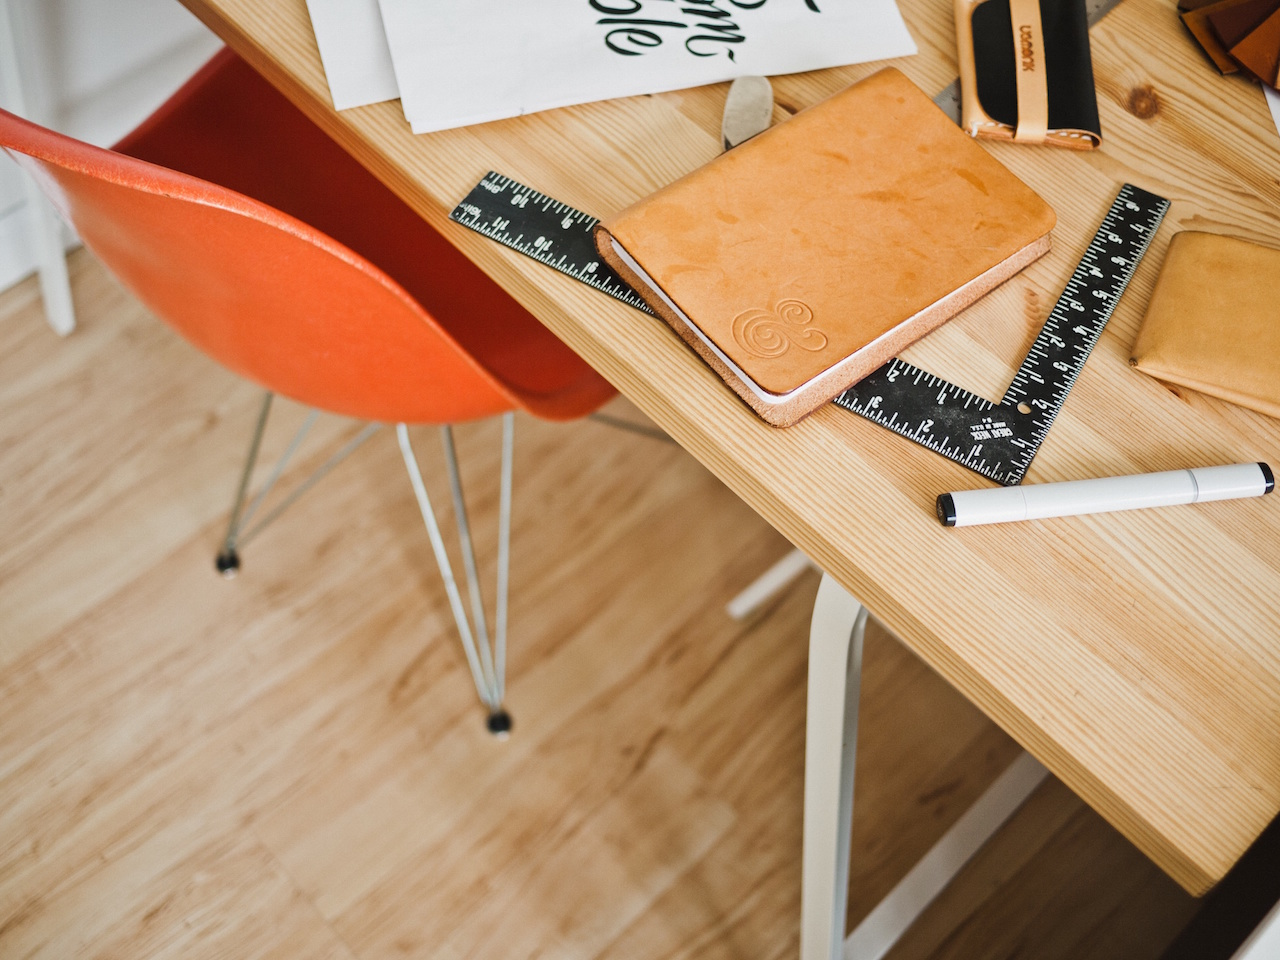
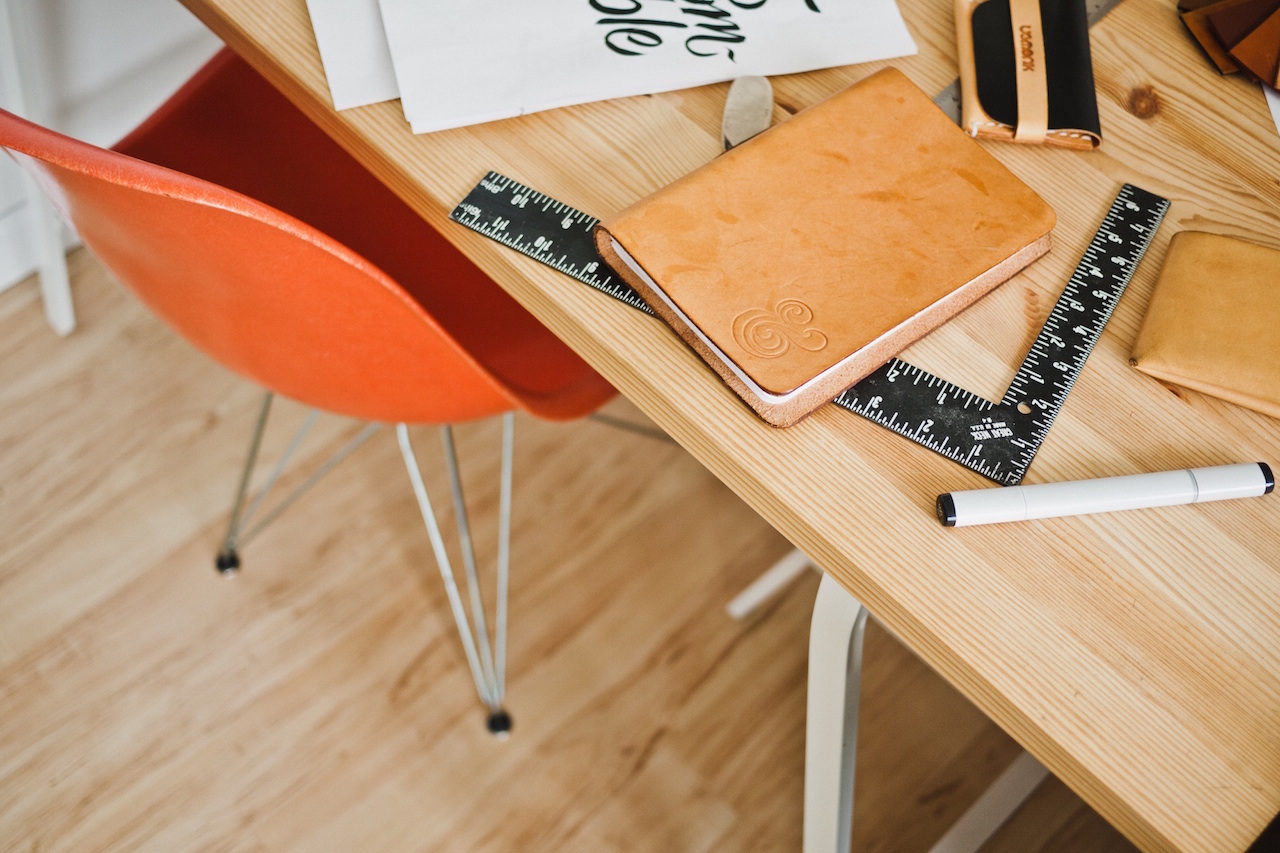
added photo page

diff --git a/app/assets/stylesheets/style.css b/app/assets/stylesheets/style.css
@@ -69,6 +69,9 @@ a:hover            {color: #FFE100;}
   -o-transition:      all 0s ease-out;
   transition:         all 0s ease-out;
 }
+.no-border {border-bottom: none;}
+.no-border:hover {border-bottom: none;}
+
 .project-thumb a:hover img {outline: 5px solid #FFE100;}
 .button {
   font-size: .75em;
@@ -237,6 +240,7 @@ nav li:last-of-type   {padding-right: 0;}
 .yellow           {color: #FFE100;}
 .projects-extra   {background-color: #3EACA8;}
 
+.photos img {margin: 5% 0;}
 
 /* $CONTACT 
 ------------------------- */

diff --git a/config/routes.rb b/config/routes.rb
@@ -12,6 +12,7 @@ DesignPortfolio::Application.routes.draw do
   get '/projects/govote' => 'pages#govote'
   get '/projects/privacy' => 'pages#privacy'
   get '/projects/others' => 'pages#others'
+  get '/photography/' => 'pages#photography'
 
   # get '/work' => 'pages#projects'
   # get '/about' => 'pages#about'
